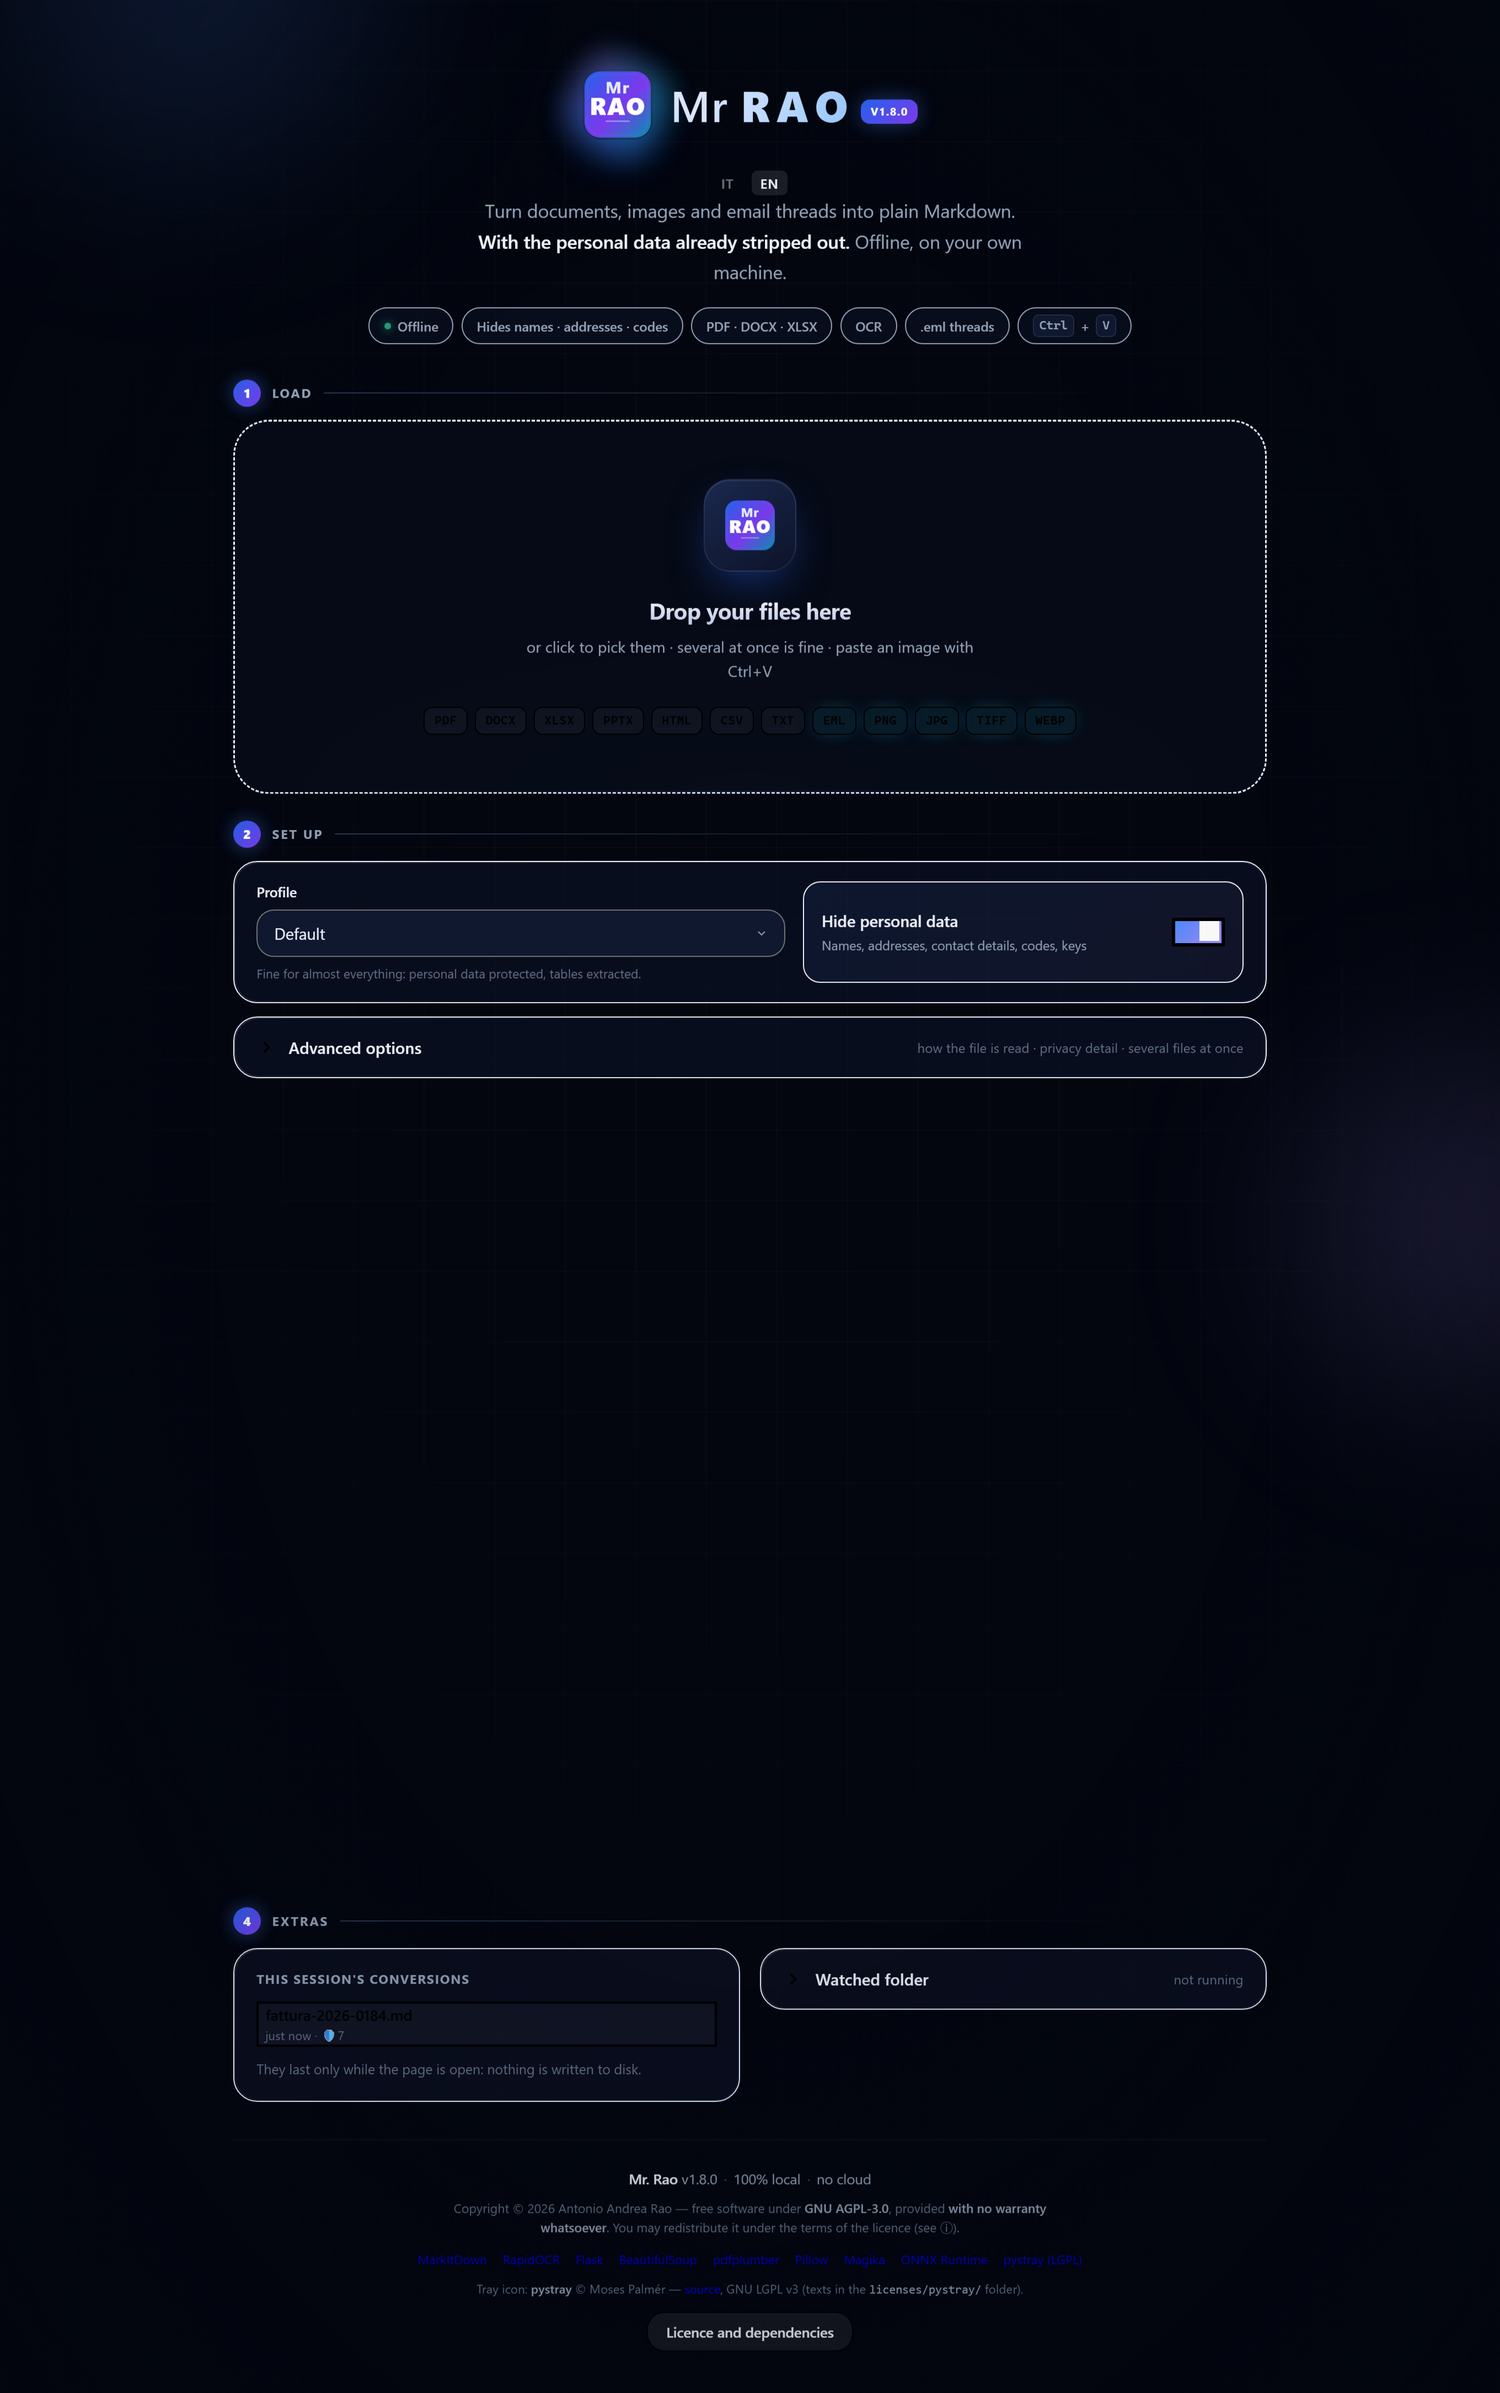
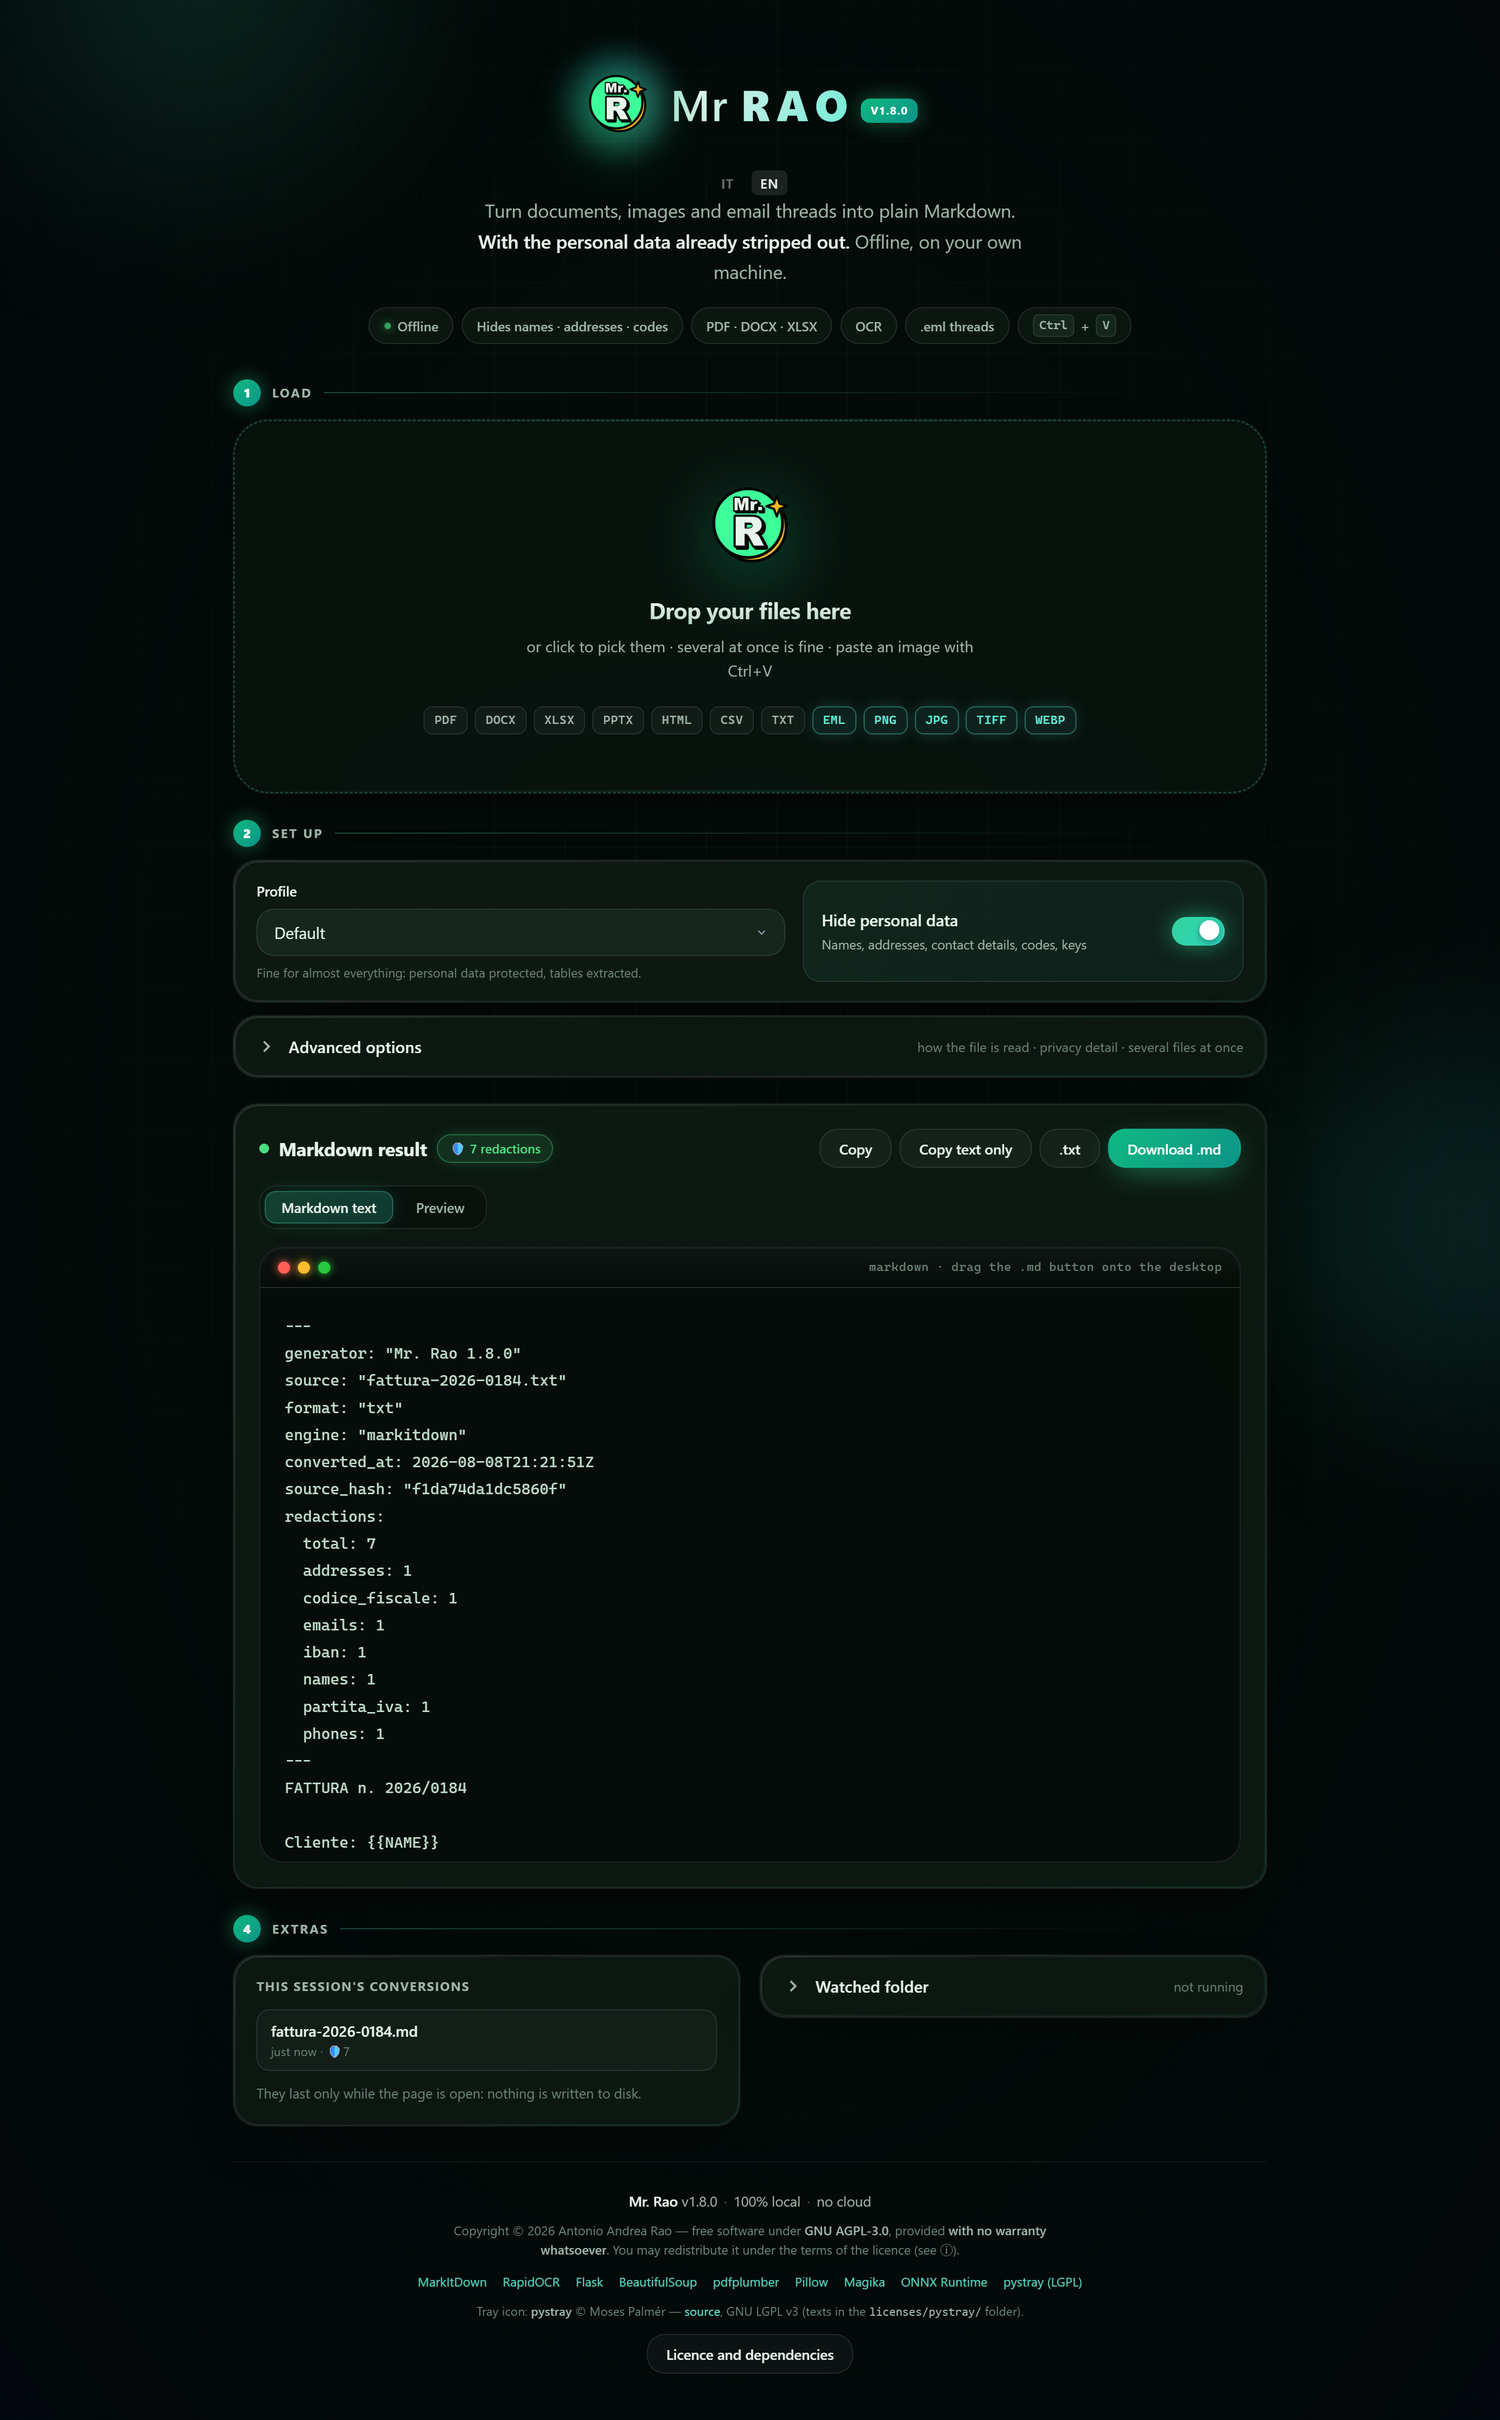
Tolte le cornici quadrate attorno al marchio tondo
Il logo adesso e' un disco, ma stava dentro due riquadri stondati: la
tessera da 84 px della zona di trascinamento (bordo, sfondo sfumato e
ombra) e il marchio in cima, con `border-radius` da riquadro sull'alone
e una `box-shadow` che segue il rettangolo dell'elemento e proiettava
quindi un'ombra quadrata sotto una forma tonda.

Le cornici sono rimosse invece che arrotondate: il marchio ha gia' il
suo disco e il suo contorno nero, e incorniciarlo di nuovo raddoppiava
lo stesso segno. Restano misura, galleggiamento e alone, che ora e'
circolare come cio' che illumina, e passa da `box-shadow` a
`filter: drop-shadow` -- l'unica delle due che segue la sagoma vera.

RESIDUI AZZURRI. Cercandoli sono saltati fuori dieci colori ancora blu
che il controllo precedente non aveva visto, perche' cercava valori
specifici invece di una proprieta'. Ora il criterio e' "il canale blu
domina su rosso e verde", che non puo' mancarne: rgba(37,99,235),
rgba(30,45,85), rgba(15,22,45), rgba(10,16,32) e il ciano 34,211,238.
Erano proprio nella tessera del trascinamento e negli aloni.

SCHERMATE. Rifatte in italiano e in inglese con l'interfaccia nuova,
piu' la social-preview. Nota per la prossima volta: lo script stampa
sempre "schermata.png" anche quando salva schermata-en.png, e rigenera
la social-preview a ogni esecuzione -- quindi l'italiano va lanciato per
ultimo, altrimenti la card di GitHub finisce in inglese.

693 test, gate verde.

diff --git a/static/css/app.css b/static/css/app.css
@@ -99,7 +99,7 @@ body {
 .orb--c {
   width: 360px; height: 360px;
   bottom: -8%; left: 30%;
-  background: radial-gradient(circle, rgba(34, 211, 238, 0.28), transparent 68%);
+  background: radial-gradient(circle, rgba(94, 234, 212, 0.28), transparent 68%);
   animation-duration: 20s;
   animation-delay: -3s;
 }
@@ -250,11 +250,14 @@ body {
   flex-shrink: 0;
 }
 
+/* L'alone segue la forma di cio' che illumina: il marchio e' un disco,
+   quindi il cerchio -- con un raggio da riquadro si vedevano gli angoli
+   sporgere oltre il logo. */
 .hero__mark::after {
   content: "";
   position: absolute;
   inset: -8px;
-  border-radius: 22px;
+  border-radius: 50%;
   background: conic-gradient(from 180deg, var(--primary), var(--accent), var(--cyan), var(--primary));
   opacity: 0.45;
   filter: blur(14px);
@@ -269,9 +272,10 @@ body {
 .hero__mark img {
   width: 100%;
   height: 100%;
-  border-radius: 18px;
   display: block;
-  box-shadow: 0 12px 40px rgba(37, 99, 235, 0.45);
+  /* `filter: drop-shadow` e non `box-shadow`: la seconda segue il riquadro
+     dell'elemento e proiettava un'ombra quadrata sotto un logo tondo. */
+  filter: drop-shadow(0 12px 30px rgba(16, 185, 129, 0.45));
 }
 
 .hero__wordmark {
@@ -388,7 +392,7 @@ body {
   border: 1.5px dashed rgba(94, 234, 212, 0.22);
   background:
     radial-gradient(ellipse 80% 70% at 50% 100%, rgba(52, 211, 153, 0.12), transparent 60%),
-    rgba(10, 16, 32, 0.7);
+    rgba(10, 18, 13, 0.7);
   backdrop-filter: blur(20px) saturate(140%);
   overflow: hidden;
   transition: transform 0.4s var(--ease-out), border-color 0.3s, box-shadow 0.4s;
@@ -443,26 +447,27 @@ body {
 
 .drop-zone > * { position: relative; z-index: 1; }
 
+/* Niente cornice attorno al marchio: il logo ha gia' il suo disco e il suo
+   contorno nero, e un riquadro stondato attorno a una forma tonda si legge
+   come un errore. Restano la misura, il galleggiamento e l'alone, che ora
+   e' circolare come cio' che illumina. */
 .drop-icon {
   width: 84px;
   height: 84px;
-  border-radius: 24px;
   margin: 0 auto 1.25rem;
   display: flex;
   align-items: center;
   justify-content: center;
-  background: linear-gradient(145deg, rgba(30, 45, 85, 0.9), rgba(15, 22, 45, 0.95));
-  border: 1px solid var(--glass-border);
-  box-shadow: 0 16px 40px -12px rgba(37, 99, 235, 0.55), inset 0 1px 0 rgba(255, 255, 255, 0.08);
-  transition: transform 0.45s var(--ease-spring);
+  transition: transform 0.45s var(--ease-spring), filter 0.45s var(--ease-out);
+  filter: drop-shadow(0 14px 34px rgba(16, 185, 129, 0.45));
 }
 
 .drop-zone:hover .drop-icon {
   transform: translateY(-4px) rotate(-3deg) scale(1.06);
-  box-shadow: 0 20px 50px -10px rgba(52, 211, 153, 0.65), 0 0 30px rgba(45, 212, 191, 0.3);
+  filter: drop-shadow(0 18px 44px rgba(52, 211, 153, 0.65));
 }
 
-.drop-icon img { width: 48px; height: 48px; border-radius: 12px; }
+.drop-icon img { width: 84px; height: 84px; display: block; }
 
 .drop-title {
   font-size: 1.28rem;
@@ -510,9 +515,9 @@ body {
 
 .fmt-badge.highlight {
   color: var(--cyan);
-  border-color: rgba(34, 211, 238, 0.35);
-  background: rgba(34, 211, 238, 0.08);
-  box-shadow: 0 0 16px -6px rgba(34, 211, 238, 0.5);
+  border-color: rgba(94, 234, 212, 0.35);
+  background: rgba(94, 234, 212, 0.08);
+  box-shadow: 0 0 16px -6px rgba(94, 234, 212, 0.5);
 }
 
 #file-input { display: none; }
@@ -1417,7 +1422,7 @@ input[data-tip] { cursor: pointer; }
   overflow: auto;
   padding: 1.5rem 1.55rem 1.4rem;
   border-radius: var(--radius-lg);
-  background: rgba(10, 16, 32, 0.94);
+  background: rgba(10, 18, 13, 0.94);
   border: 1px solid var(--glass-border-hi);
   box-shadow: var(--shadow-float), 0 0 60px -20px rgba(52, 211, 153, 0.45);
   transform: translateY(16px) scale(0.97);
